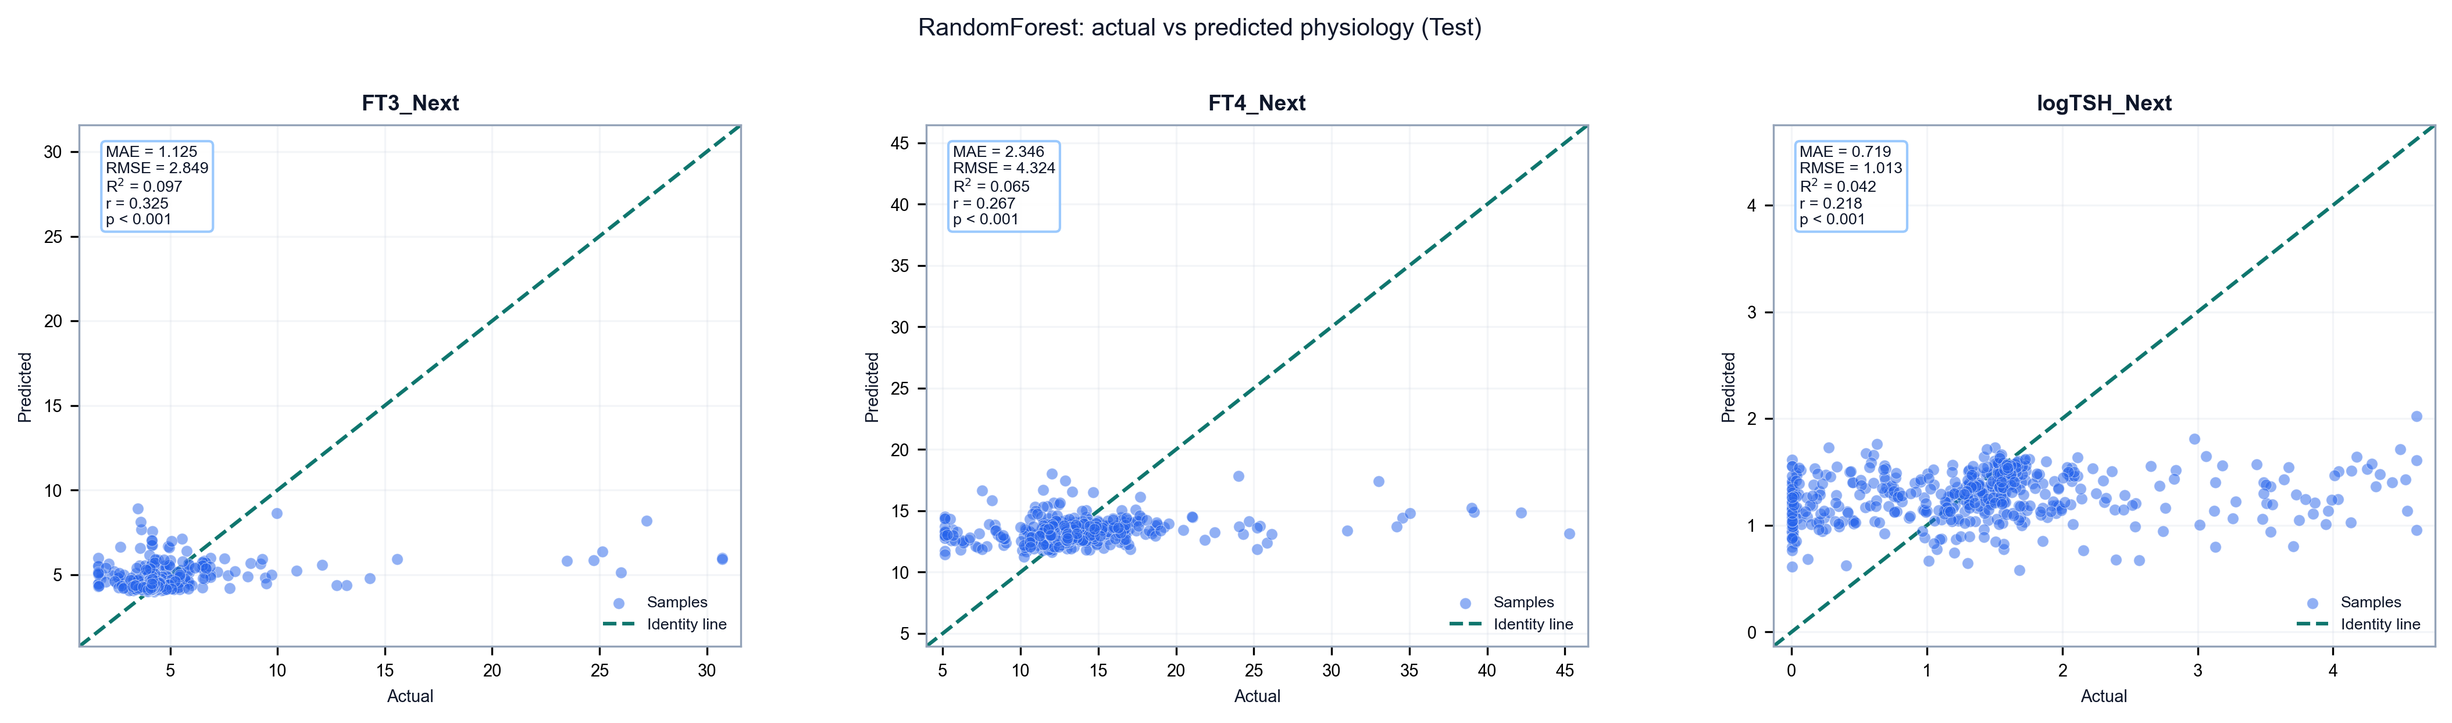
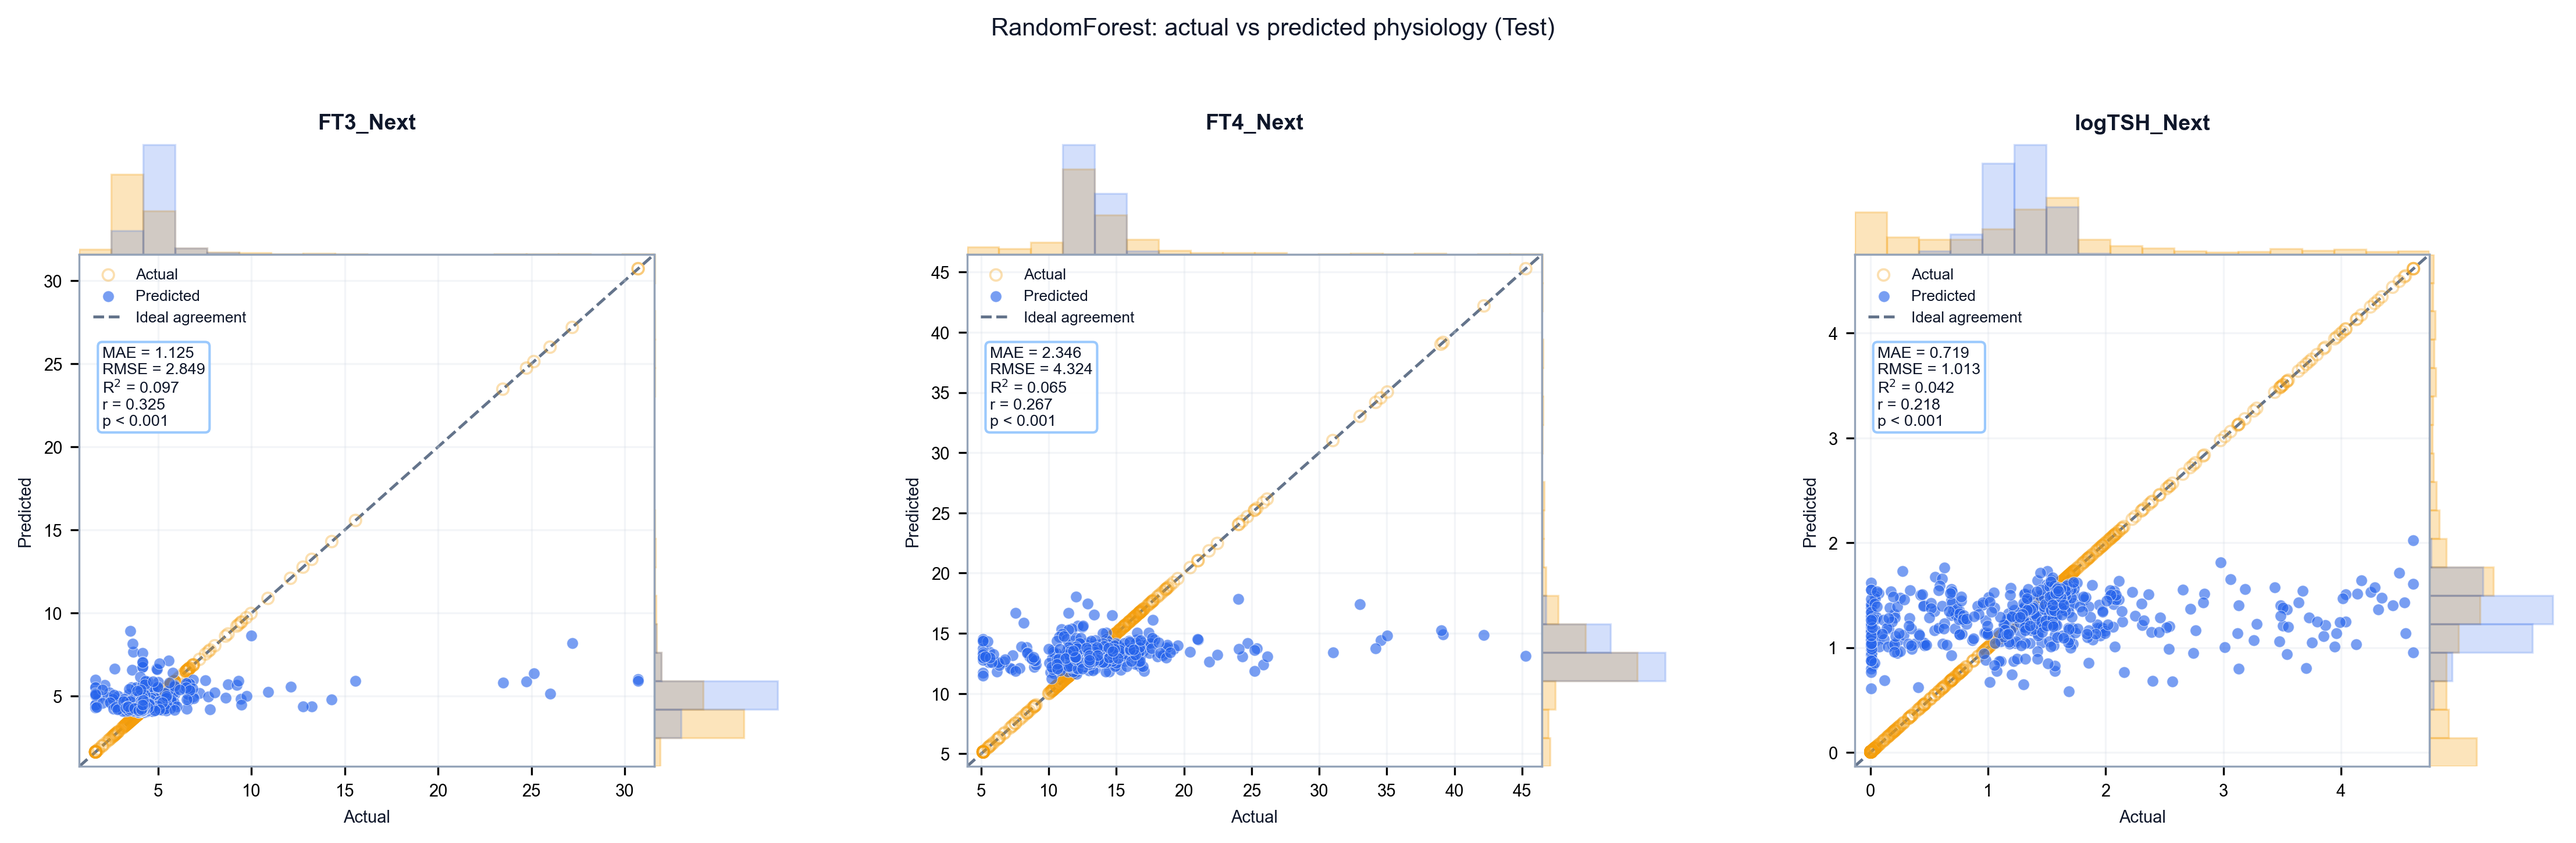
Adjust two-stage comparison and physio scatter layout

diff --git a/utils/physio_forecast.py b/utils/physio_forecast.py
@@ -281,43 +281,131 @@ def get_stage2_models():
 def save_physio_scatter(y_true, y_pred, out_dir, model_name, split_name):
     """Save true-vs-pred scatter plots for the best stage-1 model."""
     out_dir = Path(out_dir)
-    fig, axes = plt.subplots(1, 3, figsize=(14.6, 4.4))
+    fig = plt.figure(figsize=(15.2, 5.0))
+    outer = fig.add_gridspec(1, 3, wspace=0.26)
+    actual_color = "#f59e0b"
+    predicted_color = PRIMARY_BLUE
+    ref_color = "#64748b"
     for idx, target in enumerate(TARGET_COLS):
-        ax = axes[idx]
+        inner = outer[0, idx].subgridspec(
+            2,
+            2,
+            height_ratios=[0.9, 4.0],
+            width_ratios=[4.0, 0.9],
+            hspace=0.0,
+            wspace=0.0,
+        )
+        ax_top = fig.add_subplot(inner[0, 0])
+        ax = fig.add_subplot(inner[1, 0], sharex=ax_top)
+        ax_right = fig.add_subplot(inner[1, 1], sharey=ax)
+        ax_corner = fig.add_subplot(inner[0, 1])
+        ax_corner.axis("off")
+
         mae = mean_absolute_error(y_true[:, idx], y_pred[:, idx])
         rmse = float(np.sqrt(mean_squared_error(y_true[:, idx], y_pred[:, idx])))
         r2 = r2_score(y_true[:, idx], y_pred[:, idx])
         corr_r, corr_p = pearsonr(y_true[:, idx], y_pred[:, idx])
-        ax.scatter(
-            y_true[:, idx],
-            y_pred[:, idx],
-            alpha=0.50,
+        actual = y_true[:, idx]
+        predicted = y_pred[:, idx]
+
+        actual_handle = ax.scatter(
+            actual,
+            actual,
+            alpha=0.32,
             s=22,
-            color=PRIMARY_BLUE,
+            facecolors="none",
+            edgecolors=actual_color,
+            linewidths=0.9,
+            label="Actual",
+            zorder=2,
+        )
+        predicted_handle = ax.scatter(
+            actual,
+            predicted,
+            alpha=0.62,
+            s=22,
+            color=predicted_color,
             edgecolors="white",
             linewidths=0.25,
-            label="Samples",
-            zorder=3,
+            label="Predicted",
+            zorder=4,
         )
-        low = float(min(y_true[:, idx].min(), y_pred[:, idx].min()))
-        high = float(max(y_true[:, idx].max(), y_pred[:, idx].max()))
+        low = float(min(actual.min(), predicted.min()))
+        high = float(max(actual.max(), predicted.max()))
         pad = 0.03 * (high - low if high > low else 1.0)
         line = ax.plot(
             [low - pad, high + pad],
             [low - pad, high + pad],
             "--",
-            color=PRIMARY_TEAL,
-            lw=1.5,
-            label="Identity line",
-            zorder=2,
+            color=ref_color,
+            lw=1.2,
+            label="Ideal agreement",
+            zorder=1,
         )[0]
         ax.set_xlim(low - pad, high + pad)
         ax.set_ylim(low - pad, high + pad)
-        ax.set_title(target, fontsize=9, pad=6)
         ax.set_xlabel("Actual", fontsize=7)
         ax.set_ylabel("Predicted", fontsize=7)
         ax.grid(alpha=0.22)
-        ax.legend(handles=[ax.collections[0], line], loc="lower right", frameon=False, fontsize=6.5)
+        legend = ax.legend(
+            handles=[actual_handle, predicted_handle, line],
+            loc="upper left",
+            frameon=False,
+            fontsize=6.3,
+        )
+        ax_top.hist(
+            actual,
+            bins=18,
+            range=(low - pad, high + pad),
+            color=actual_color,
+            alpha=0.28,
+            edgecolor=actual_color,
+            linewidth=0.8,
+        )
+        ax_top.hist(
+            predicted,
+            bins=18,
+            range=(low - pad, high + pad),
+            color=predicted_color,
+            alpha=0.20,
+            edgecolor=predicted_color,
+            linewidth=0.8,
+        )
+        ax_right.hist(
+            actual,
+            bins=18,
+            range=(low - pad, high + pad),
+            orientation="horizontal",
+            color=actual_color,
+            alpha=0.28,
+            edgecolor=actual_color,
+            linewidth=0.8,
+        )
+        ax_right.hist(
+            predicted,
+            bins=18,
+            range=(low - pad, high + pad),
+            orientation="horizontal",
+            color=predicted_color,
+            alpha=0.20,
+            edgecolor=predicted_color,
+            linewidth=0.8,
+        )
+        ax_top.set_title(target, fontsize=9, pad=4)
+        for marginal_ax in (ax_top, ax_right):
+            marginal_ax.grid(False)
+            marginal_ax.set_facecolor("white")
+        ax_top.tick_params(axis="x", labelbottom=False, bottom=False)
+        ax_top.tick_params(axis="y", labelleft=False, left=False)
+        ax_right.tick_params(axis="x", labelbottom=False, bottom=False)
+        ax_right.tick_params(axis="y", labelleft=False, left=False)
+        ax_top.spines["right"].set_visible(False)
+        ax_top.spines["top"].set_visible(False)
+        ax_top.spines["left"].set_visible(False)
+        ax_right.spines["right"].set_visible(False)
+        ax_right.spines["top"].set_visible(False)
+        ax_right.spines["bottom"].set_visible(False)
+
         metric_text = "\n".join(
             [
                 f"MAE = {mae:.3f}",
@@ -327,9 +415,14 @@ def save_physio_scatter(y_true, y_pred, out_dir, model_name, split_name):
                 _format_p_value(corr_p),
             ]
         )
+        fig.canvas.draw()
+        renderer = fig.canvas.get_renderer()
+        legend_bbox = legend.get_window_extent(renderer=renderer).transformed(ax.transAxes.inverted())
+        metric_x = max(0.04, float(legend_bbox.x0) + 0.01)
+        metric_y = max(0.12, float(legend_bbox.y0) - 0.03)
         ax.text(
-            0.04,
-            0.96,
+            metric_x,
+            metric_y,
             metric_text,
             transform=ax.transAxes,
             ha="left",
@@ -337,10 +430,10 @@ def save_physio_scatter(y_true, y_pred, out_dir, model_name, split_name):
             fontsize=6.5,
             color=TEXT_DARK,
             bbox=dict(boxstyle="round,pad=0.28", facecolor="white", edgecolor=SOFT_BLUE, alpha=0.92),
-            zorder=4,
+            zorder=5,
         )
     fig.suptitle(f"{model_name}: actual vs predicted physiology ({split_name})", fontsize=10, y=0.98)
-    fig.subplots_adjust(left=0.06, right=0.985, top=0.84, bottom=0.16, wspace=0.28)
+    fig.subplots_adjust(left=0.05, right=0.985, top=0.84, bottom=0.12)
     fig.savefig(out_dir / f"{model_name.replace(' ', '_')}_{split_name}_Scatter.png", dpi=300, bbox_inches="tight")
     plt.close(fig)
 

diff --git a/scripts/relapse_two_stage_physio.py b/scripts/relapse_two_stage_physio.py
@@ -304,8 +304,8 @@ def save_stage2_comparison(two_stage_df, best_groups, test_df):
         y_true, direct_proba, best_groups["predicted_plus_current"][1]["proba"], groups
     )
     y_base = float(best_df["PR_AUC"].max()) + 0.045
-    _draw_sig_bracket(axes[1], 0, 1, y_base, f"Direct > Pred only, {_format_p_value(p_direct_vs_pred_only)}")
-    _draw_sig_bracket(axes[1], 0, 2, y_base + 0.05, f"Direct > Pred + current, {_format_p_value(p_direct_vs_pred_plus)}")
+    _draw_sig_bracket(axes[1], 0, 1, y_base, _format_p_value(p_direct_vs_pred_only))
+    _draw_sig_bracket(axes[1], 0, 2, y_base + 0.05, _format_p_value(p_direct_vs_pred_plus))
 
     fig.tight_layout(rect=[0, 0.02, 1, 0.98])
     fig.savefig(Config.OUT_DIR / "TwoStage_Group_Comparison.png", dpi=300, bbox_inches="tight")
